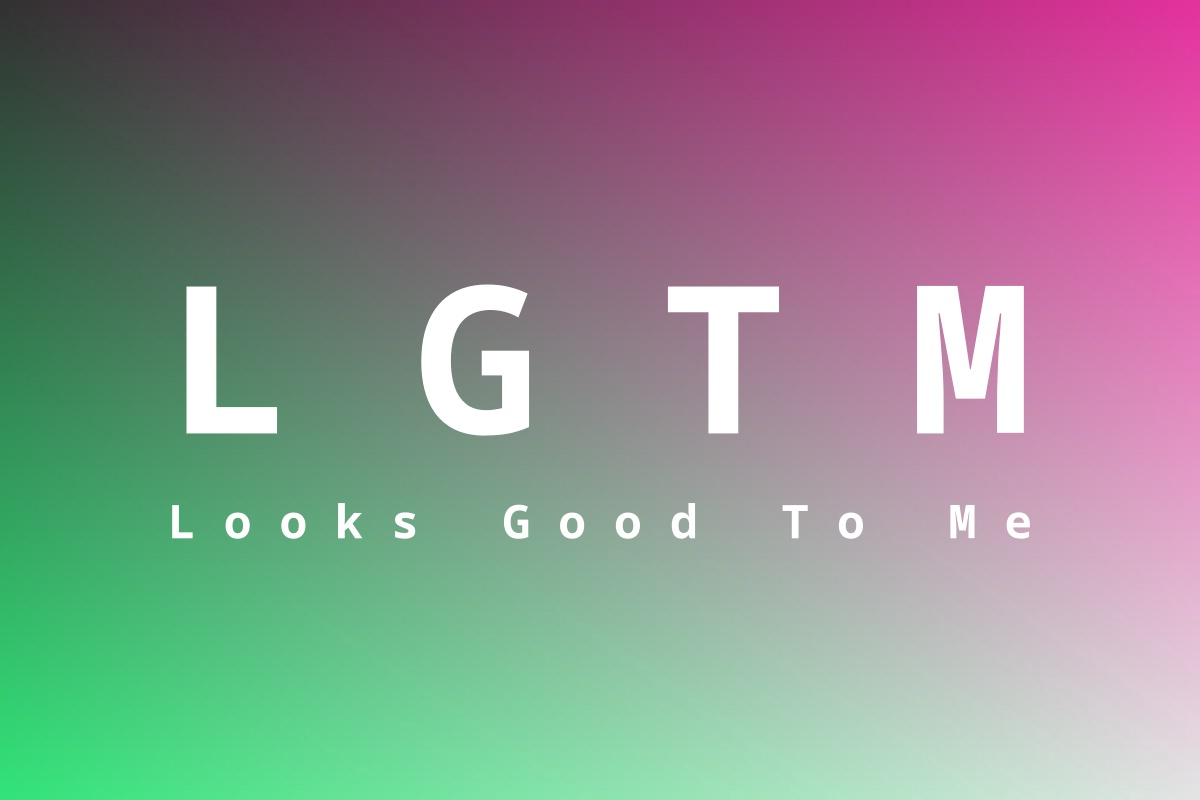
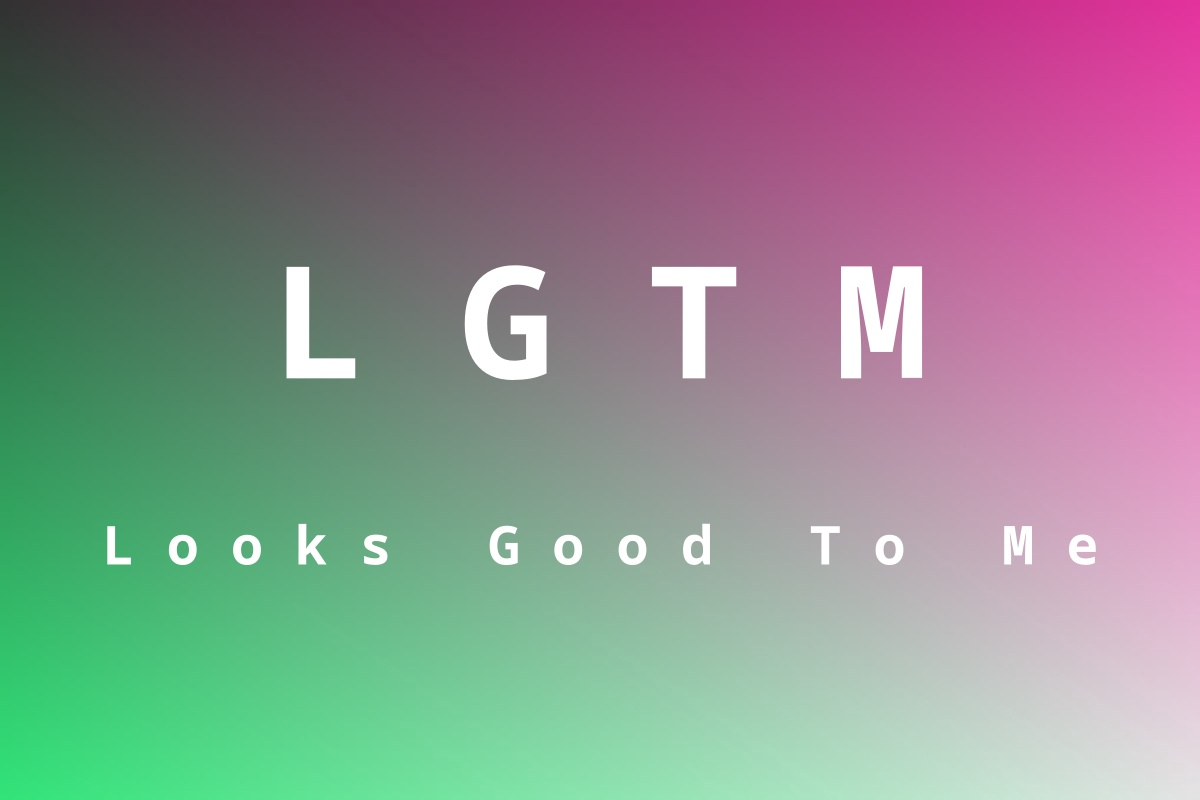
update

diff --git a/text.go b/text.go
@@ -5,6 +5,8 @@ import (
 	"image/color"
 	"strings"
 	"unicode"
+	
+	"golang.org/x/image/font"
 )
 
 const (
@@ -87,51 +89,129 @@ func NewSubText(text string, textColor TextColor) *Text {
 func (t *Text) FontSize(img image.Image) float64 {
 	imageWidth := img.Bounds().Dx()
 	imageHeight := img.Bounds().Dy()
-	textLength := len(t.Text.String())
+	aspectRatio := float64(imageWidth) / float64(imageHeight)
 
-	// セーフエリアを考慮した利用可能エリア
-	safeAreaWidth := float64(imageWidth) * 0.9
-	safeAreaHeight := float64(imageHeight) * 0.7
-
-	// 幅制約: テキストが収まる最大フォントサイズ
-	// 短いテキストにはより寛大な計算を適用
-	var maxFontSizeByWidth float64
-	if textLength <= 4 {
-		// 短いテキスト（4文字以下）: より大きなフォントサイズを許可
-		maxFontSizeByWidth = safeAreaWidth / float64(textLength) * 1.5
-	} else {
-		// 長いテキスト: 従来の計算
-		maxFontSizeByWidth = safeAreaWidth / float64(textLength)
-	}
-
-	// 高さ制約: メインテキストとサブテキストの両方が収まる最大フォントサイズ
-	// メインテキストが大きく、サブテキストがその60%のサイズと仮定
-	var maxFontSizeByHeight float64
-	if t.MessageType == MessageTypeMain {
-		// メインテキスト: 利用可能高さの60%を使用
-		maxFontSizeByHeight = safeAreaHeight * 0.6
-	} else {
-		// サブテキスト: 利用可能高さの36%を使用（メインの60%）
-		maxFontSizeByHeight = safeAreaHeight * 0.36
-	}
-
-	// 幅と高さの制約の小さい方を採用
-	fontSize := maxFontSizeByWidth
-	if maxFontSizeByHeight < fontSize {
-		fontSize = maxFontSizeByHeight
-	}
+	// セーフエリアを考慮した利用可能エリア（より保守的に設定）
+	safeAreaWidth := float64(imageWidth) * 0.85
+	safeAreaHeight := float64(imageHeight) * 0.8
 
 	// 最小・最大フォントサイズの制限
-	minFontSize := 12.0
+	minFontSize := 8.0
 	maxFontSize := 400.0
 
-	if fontSize < minFontSize {
-		fontSize = minFontSize
-	} else if fontSize > maxFontSize {
-		fontSize = maxFontSize
+	// 最適なフォントサイズを二分探索で見つける
+	bestFontSize := minFontSize
+	left, right := minFontSize, maxFontSize
+	
+	for right-left > 0.5 {
+		mid := (left + right) / 2
+		
+		// このフォントサイズでテキストが収まるかチェック
+		if t.textFitsWithFontSize(mid, safeAreaWidth, safeAreaHeight, aspectRatio) {
+			bestFontSize = mid
+			left = mid
+		} else {
+			right = mid
+		}
 	}
 
-	return fontSize
+	// 最小フォントサイズでも収まらない場合の最終チェック
+	if !t.textFitsWithFontSize(bestFontSize, safeAreaWidth, safeAreaHeight, aspectRatio) {
+		// 最小フォントサイズでも収まらない場合は、幅だけを考慮した最小フォントサイズを計算
+		face, err := t.Font.FontFace(minFontSize)
+		if err == nil {
+			textWidth := t.measureTextWidth(face)
+			if textWidth > safeAreaWidth {
+				// 幅に合わせてフォントサイズを計算
+				scaleFactor := safeAreaWidth / textWidth
+				bestFontSize = minFontSize * scaleFactor
+				if bestFontSize < 6.0 {
+					bestFontSize = 6.0 // 絶対最小値
+				}
+			}
+		}
+	}
+
+	return bestFontSize
+}
+
+// measureTextWidth はテキストの実際の幅を測定する
+func (t *Text) measureTextWidth(face font.Face) float64 {
+	textWidth := 0.0
+	// 平均的な文字幅として'M'の幅を取得
+	mAdvance, hasMAdvance := face.GlyphAdvance('M')
+	
+	for _, r := range t.Text.String() {
+		advance, ok := face.GlyphAdvance(r)
+		if !ok {
+			// グリフが見つからない場合は'M'の幅を使用、それも無い場合は固定値
+			if hasMAdvance {
+				advance = mAdvance
+			} else {
+				// 固定のfallback値（フォントサイズに比例した値）
+				metrics := face.Metrics()
+				advance = metrics.Height / 2 // 高さの半分を幅として使用
+			}
+		}
+		textWidth += float64(advance) / 64.0
+	}
+	return textWidth
+}
+
+// textFitsWithFontSize は指定したフォントサイズでテキストが収まるかどうかを判定
+func (t *Text) textFitsWithFontSize(fontSize, safeAreaWidth, safeAreaHeight, aspectRatio float64) bool {
+	// フォントフェイスを作成してテキストの実際の幅を計算
+	face, err := t.Font.FontFace(fontSize)
+	if err != nil {
+		return false
+	}
+
+	// テキストの実際の幅を計算
+	textWidth := t.measureTextWidth(face)
+	
+	// 幅の制約チェック（少し余裕を持たせる）
+	if textWidth > safeAreaWidth * 0.98 {
+		return false
+	}
+
+	// 高さの制約チェック: メインテキストとサブテキストの両方が収まる必要がある
+	metrics := face.Metrics()
+	textHeight := float64(metrics.Height) / 64.0
+	
+	// メインテキストとサブテキストの間隔を考慮
+	textSpacing := textHeight * 0.5
+	
+	// 縦長画像の場合はより多くのスペースを確保
+	var totalTextHeight float64
+	if aspectRatio < 0.5 {
+		// 非常に縦長な画像: より大きな間隔を確保
+		totalTextHeight = textHeight + (textHeight * 0.7) + (textSpacing * 2.5)
+	} else if aspectRatio < 0.8 {
+		// 縦長画像: メインテキストとサブテキストの高さ + 間隔を考慮
+		totalTextHeight = textHeight + (textHeight * 0.7) + (textSpacing * 1.5)
+	} else {
+		// 横長・正方形画像: 標準的な配置
+		totalTextHeight = textHeight + (textHeight * 0.6) + textSpacing
+	}
+
+	// 利用可能高さ以内に収まるかチェック（縦長画像では保守的に）
+	var heightRatio float64
+	if aspectRatio < 0.5 {
+		// 非常に縦長な画像: より保守的に
+		heightRatio = 0.6
+	} else if aspectRatio < 0.8 {
+		// 縦長画像: やや保守的に
+		heightRatio = 0.65
+	} else {
+		// 横長・正方形画像: 標準
+		heightRatio = 0.7
+	}
+	
+	if totalTextHeight > safeAreaHeight * heightRatio {
+		return false
+	}
+
+	return true
 }
 
 func (t *Text) Point(img image.Image) *Point {
@@ -158,34 +238,113 @@ func (t *Text) Point(img image.Image) *Point {
 	// X座標は常に中央
 	x := float64(imgWidth) / 2
 
+	// フォントサイズとテキスト高さを取得
+	fontSize := t.FontSize(img)
+	face, err := t.Font.FontFace(fontSize)
+	if err != nil {
+		// フォント作成エラーの場合は従来のロジックを使用
+		return t.fallbackPoint(img, marginY, safeHeight, x, aspectRatio)
+	}
+
+	metrics := face.Metrics()
+	textHeight := float64(metrics.Height) / 64.0
+
 	switch t.MessageType {
 	case MessageTypeMain:
-		// メインテキスト: アスペクト比に応じて位置調整
+		// メインテキスト: 画像の上部に配置
 		var yRatio float64
 		if aspectRatio > 2.0 {
 			// 横長画像: より中央寄りに
-			yRatio = 0.4
+			yRatio = 0.35
 		} else if aspectRatio < 0.5 {
-			// 縦長画像: より上部に
-			yRatio = 0.25
+			// 縦長画像: より上部に（固定位置）
+			yRatio = 0.15
 		} else {
 			// 通常の画像: 上部1/3
+			yRatio = 0.3
+		}
+		y := marginY + (safeHeight * yRatio)
+		return &Point{X: x, Y: y}
+
+	case MessageTypeSub:
+		// サブテキスト: メインテキストとの重複を確実に避ける
+		// メインテキストの情報を直接計算（再帰を避けるため）
+		mainText := &Text{
+			Text:        t.Text,
+			Font:        t.Font,
+			MessageType: MessageTypeMain,
+			TextColor:   t.TextColor,
+		}
+		mainFontSize := mainText.FontSize(img)
+		mainFace, mainErr := t.Font.FontFace(mainFontSize)
+		
+		if mainErr != nil {
+			// メインテキスト情報取得失敗時は従来ロジック
+			return t.fallbackPoint(img, marginY, safeHeight, x, aspectRatio)
+		}
+		
+		mainMetrics := mainFace.Metrics()
+		mainTextHeight := float64(mainMetrics.Height) / 64.0
+		
+		// メインテキストの位置を直接計算（Point()メソッドを呼ばずに）
+		var mainYRatio float64
+		if aspectRatio > 2.0 {
+			mainYRatio = 0.35
+		} else if aspectRatio < 0.5 {
+			mainYRatio = 0.15
+		} else {
+			mainYRatio = 0.3
+		}
+		mainY := marginY + (safeHeight * mainYRatio)
+		
+		// サブテキストの位置を計算
+		var y float64
+		if aspectRatio > 2.0 {
+			// 横長画像: 固定位置
+			y = marginY + (safeHeight * 0.65)
+		} else if aspectRatio < 0.5 {
+			// 縦長画像: メインテキストの下から十分な間隔を空けて配置
+			minSpacing := textHeight * 2.0 // サブテキスト高さの2倍の間隔
+			y = mainY + mainTextHeight/2 + minSpacing + textHeight/2
+			
+			// 画像の下端からも十分な余裕を確保
+			maxY := float64(imgHeight) - marginY - textHeight/2
+			if y > maxY {
+				y = maxY
+			}
+		} else {
+			// 通常の画像: 下部1/3
+			y = marginY + (safeHeight * 0.7)
+		}
+		
+		return &Point{X: x, Y: y}
+	}
+
+	return &Point{}
+}
+
+// fallbackPoint は従来のロジックを使用したポイント計算
+func (t *Text) fallbackPoint(img image.Image, marginY, safeHeight, x, aspectRatio float64) *Point {
+	switch t.MessageType {
+	case MessageTypeMain:
+		var yRatio float64
+		if aspectRatio > 2.0 {
+			yRatio = 0.4
+		} else if aspectRatio < 0.5 {
+			yRatio = 0.25
+		} else {
 			yRatio = 1.0 / 3.0
 		}
 		y := marginY + (safeHeight * yRatio)
 		return &Point{X: x, Y: y}
 
 	case MessageTypeSub:
-		// サブテキスト: アスペクト比に応じて位置調整
 		var yRatio float64
 		if aspectRatio > 2.0 {
-			// 横長画像: より中央寄りに
 			yRatio = 0.6
 		} else if aspectRatio < 0.5 {
-			// 縦長画像: より下部に
 			yRatio = 0.75
 		} else {
-			// 通常の画像: 下部1/3
 			yRatio = 2.0 / 3.0
 		}
 		y := marginY + (safeHeight * yRatio)

diff --git a/CLAUDE.md b/CLAUDE.md
@@ -132,3 +132,8 @@ The GitHub Actions workflow (`/.github/workflows/build.yml`) automatically:
 4. Commits and pushes changes back to the repository (including test result images)
 
 The pipeline runs on every push to the main branch and automatically updates testdata/results/ with new test outputs.
+
+## ルール
+
+- プロジェクトルートに画像を生成してはいけない
+- ビルド成果物は削除する
